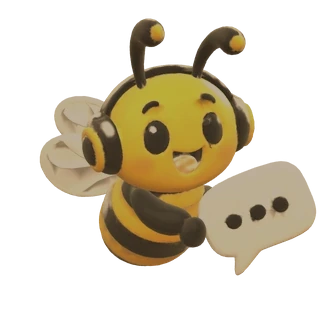
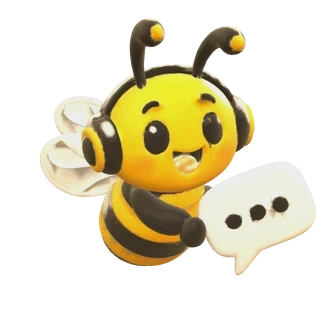
Buzz bee: deeper, richer clay colour (less dull)

Changed region(s): [[0.1235, 0.1852, 0.9877, 0.8642], [0.679, 0.0617, 0.7716, 0.1543], [0.463, 0.0617, 0.5247, 0.1235]]

diff --git a/buzz-chat.js b/buzz-chat.js
@@ -236,8 +236,8 @@
 
   const root = el('div', {className: 'buzz-root'});
   // The still bee pictures (idle, wave, typing): one transparent picture per pose, each made at 108, 216 and 324 px (1x, 2x, 3x), all the same canvas.
-  const picture = (kind, className, size) => el('img', {className, alt: '', width: size, height: size, decoding: 'async', src: `/buzz-bee-${kind}-1x.webp?v=2`,
-    srcset: `/buzz-bee-${kind}-1x.webp?v=2 1x, /buzz-bee-${kind}-2x.webp?v=2 2x, /buzz-bee-${kind}-3x.webp?v=2 3x`});
+  const picture = (kind, className, size) => el('img', {className, alt: '', width: size, height: size, decoding: 'async', src: `/buzz-bee-${kind}-1x.webp?v=3`,
+    srcset: `/buzz-bee-${kind}-1x.webp?v=3 1x, /buzz-bee-${kind}-2x.webp?v=3 2x, /buzz-bee-${kind}-3x.webp?v=3 3x`});
   const canvas = el('canvas', {className: 'buzz-canvas', 'aria-hidden': 'true'});
   const fab = el('button', {type: 'button', className: 'buzz-fab', 'aria-label': 'Chat with Buzz, PrintBee support', 'aria-haspopup': 'dialog', 'aria-expanded': 'false',
     'aria-describedby': 'buzz-tip'},
@@ -515,7 +515,7 @@
     const link = navigator.connection;
     if (link && (link.saveData || /(^|-)2g$/.test(link.effectiveType || ''))) { fab.dataset.state = 'fallback'; introTip(); return; }
     const giveUp = setTimeout(() => { if (fab.dataset.state === 'loading') { fab.dataset.state = 'fallback'; introTip(); } }, 7000);
-    import('/buzz-bee3d.js?v=9')
+    import('/buzz-bee3d.js?v=10')
       .then(module => module.createBee(canvas, {reducedMotion: REDUCED, scale: 0.86, onFrame: lift => fab.style.setProperty('--lift', lift.toFixed(3))}))
       .then(created => {
         clearTimeout(giveUp);

diff --git a/buzz-bee3d.js b/buzz-bee3d.js
@@ -13,7 +13,7 @@ import {GLTFLoader} from '/vendor/three/GLTFLoader.js';
 import {RoomEnvironment} from '/vendor/three/RoomEnvironment.js';
 
 const MODEL = '/buzz-bee.glb?v=1';
-const CLAY_TEXTURE = '/buzz-bee-clay.webp?v=2';
+const CLAY_TEXTURE = '/buzz-bee-clay.webp?v=3';
 const FIT = 1.62;                      // the bee's longest side, in world units (the view is 1.985 units tall for the button's box): leaves room to hop and spin
 const FACE_YAW = 0;                    // turn the model so it looks at the customer (set after checking the model's orientation)
 const IDLE_FPS = 30;

diff --git a/test_buzz.py b/test_buzz.py
@@ -623,9 +623,9 @@ class AnimatedBee(unittest.TestCase):
         self.assertGreater(int(edge.sum()), 100)
         self.assertGreater(solid[edge][:, :3].mean(), 0.6 * solid[inside][:, :3].mean())
         for page in self.read("buzz-chat.js").split("srcset:")[1:2]:
-            self.assertIn("1x.webp?v=2 1x", page)
-            self.assertIn("2x.webp?v=2 2x", page)
-            self.assertIn("3x.webp?v=2 3x", page)
+            self.assertIn("1x.webp?v=3 1x", page)
+            self.assertIn("2x.webp?v=3 2x", page)
+            self.assertIn("3x.webp?v=3 3x", page)
         for tool in ("make_bee_pictures.py", "make_clay_bee_texture.py"):
             self.assertTrue((self.root / "tools" / tool).exists())
 
